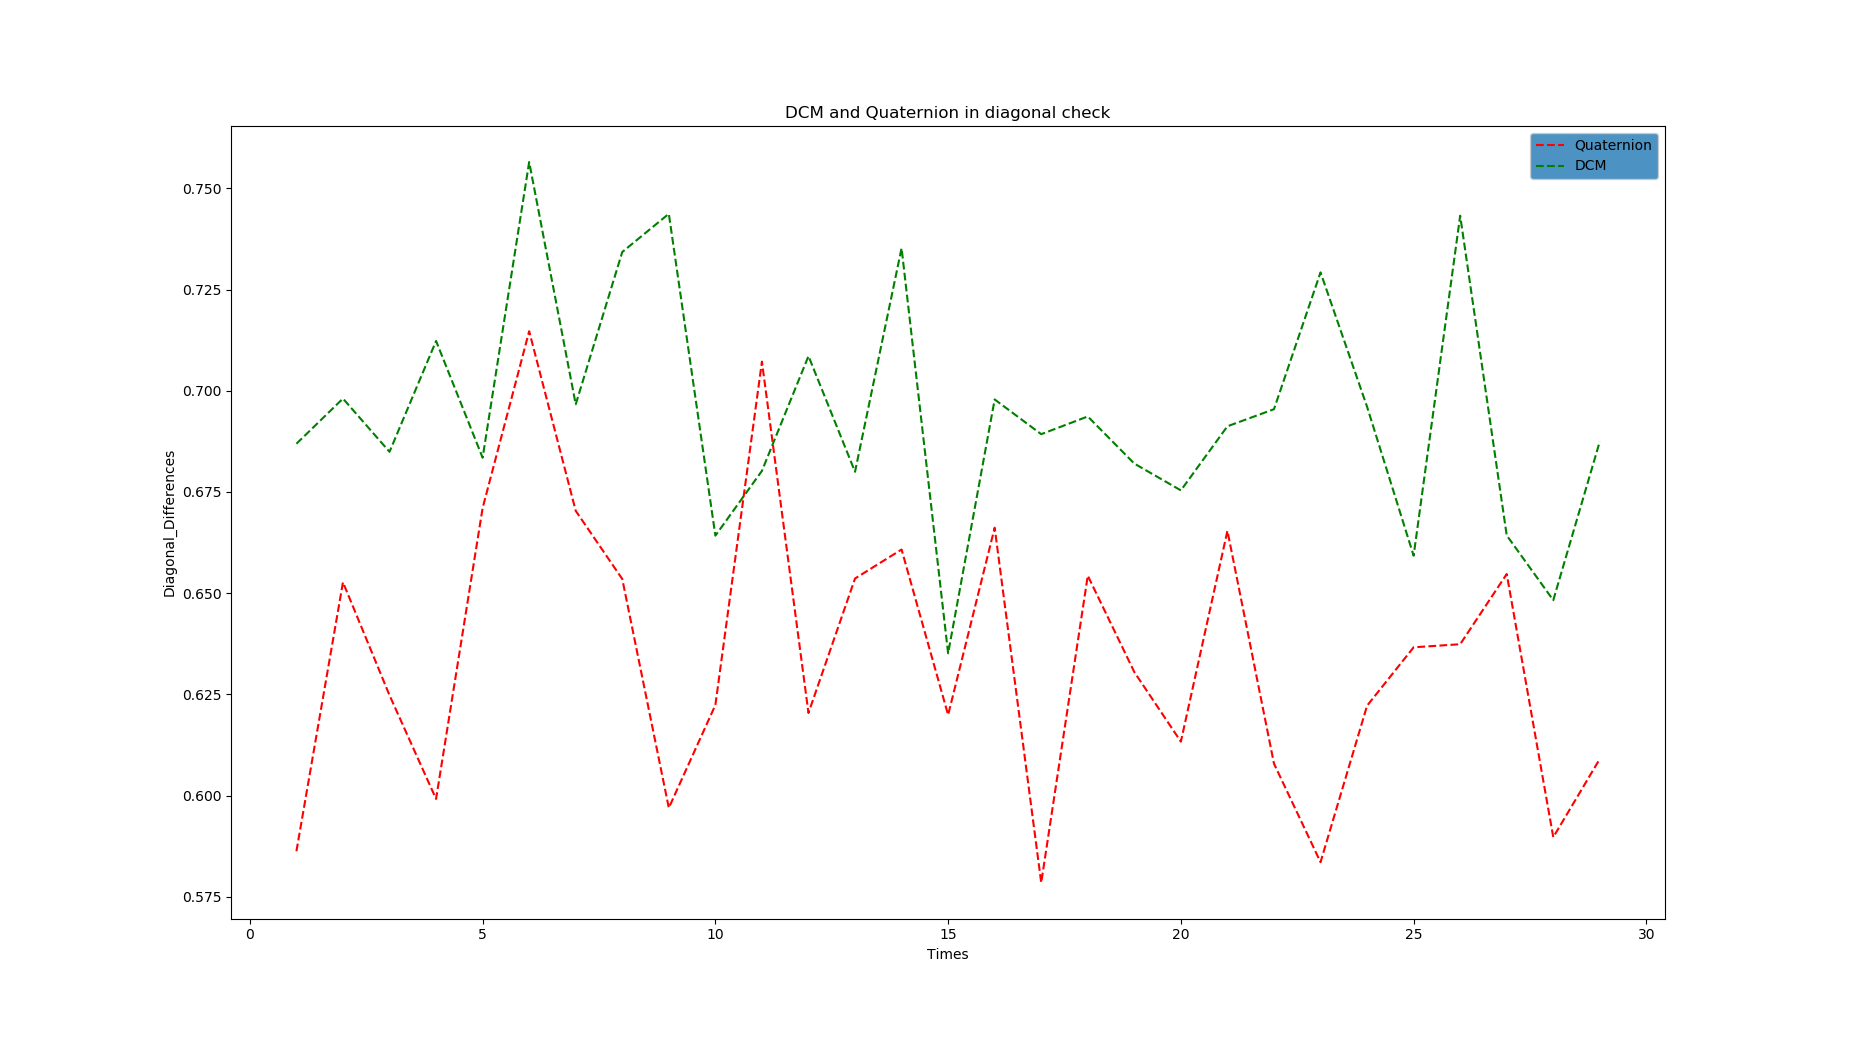
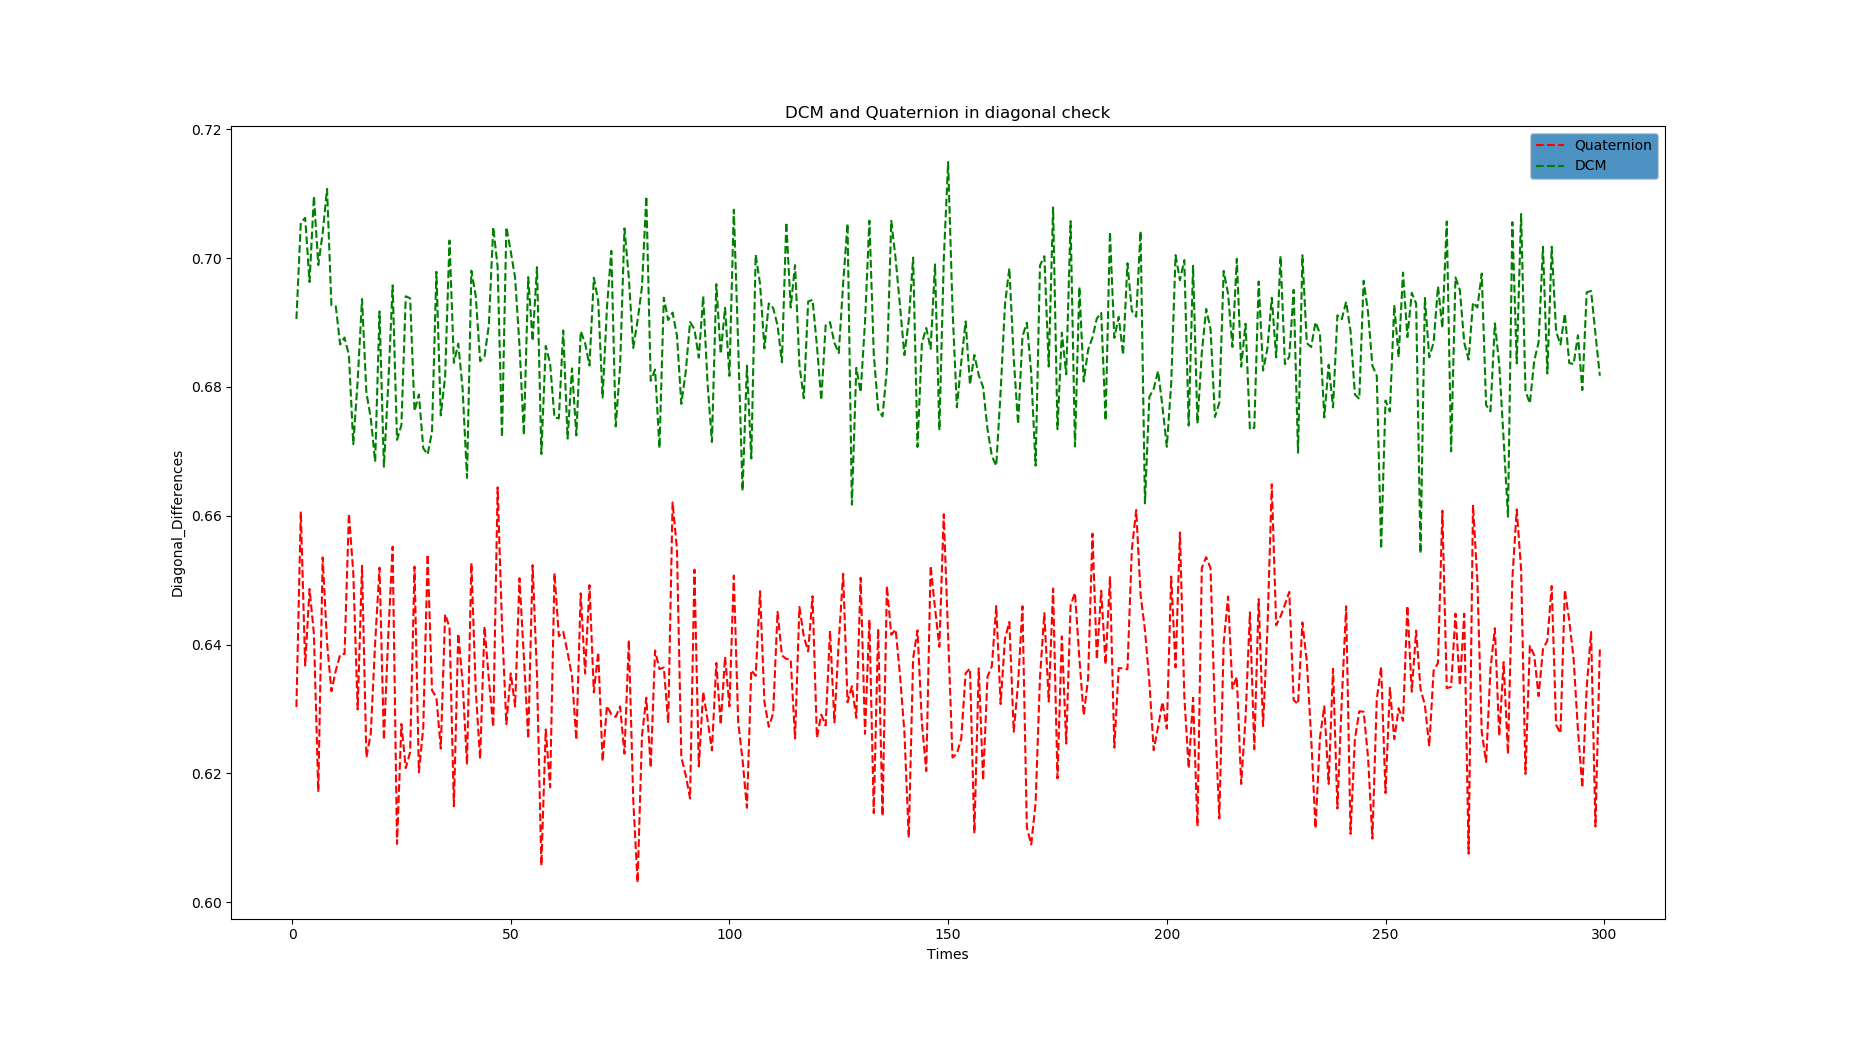
some plots

diff --git a/Quaternion_test.py b/Quaternion_test.py
@@ -67,26 +67,8 @@ print(D)
 
 print("-------test on DCM to Quaternion-------")
 print(f.DCMtoQuaternion(D))
-
-print("-------test on rotation precision------")
-
-
-print("-------compare output differences in Quaternion and DCM-------")
-(X1, X2, MEANDIFF_Q, MINDIFF_Q, MAXDIFF_Q, MEANDIFF_DCM, MINDIFF_Q, MAXDIFF_Q) = f.Quaternion_DCM_rotation_precision(30, 10, np.pi / 2, np.pi / 2, np.pi / 2)
-fig, ax = plt.subplots()
-ax.semilogy(X1, MEANDIFF_Q, 'k--', label = 'Quaternion', color = 'red')
-ax.semilogy(X1, MEANDIFF_DCM, 'k--', label = 'DCM', color = 'green')
-ax.set_xlabel("Times, 1/n")
-ax.set_ylabel("Differences")
-ax.set_title("Mean Differences of DCM and Quaternion_semilogy")
-legend = ax.legend(loc = 2)
-legend.get_frame().set_facecolor('C0')
-plt.show()
-fig.set_size_inches(18.5, 10.5)
-fig.savefig('DCM_Quaternion_Precision.png', dpi = 100)
-
 print("-------Quaternion-----------------------")
-(X1, X2, MEANDIFF, MINDIFF, MAXDIFF, TIME) = f.Quaternion_rotation_precision(30, 10, np.pi / 2, np.pi / 2, np.pi / 2)
+(X1, X2, MEANDIFF, MINDIFF, MAXDIFF, TIME) = f.Quaternion_rotation_precision(300, 100, np.pi, np.pi, np.pi)
 fig, ax = plt.subplots()
 ax.loglog(X1, MEANDIFF, 'k--', label = 'Mean', color = 'red')
 ax.loglog(X1, MINDIFF, 'k:', label = 'MIN', color = 'green')
@@ -111,19 +93,19 @@ plt.show()
 fig.set_size_inches(18.5, 10.5)
 fig.savefig('Time_Quaternion1.png', dpi = 100)
 
-fig, ax = plt.subplots()
-ax.semilogy(X1, TIME, 'o--', label = 'time', color = 'red')
-ax.set_xlabel("Times, 1/n")
-ax.set_ylabel("Time in seconds")
-ax.set_title("Time in seconds(Quaternion)_semilogy")
-legend = ax.legend(loc = 2, bbox_to_anchor = (1.05, 1.0),borderaxespad = 0.)
-legend.get_frame().set_facecolor('C0')
-plt.show()
-fig.set_size_inches(18.5, 10.5)
-fig.savefig('Time_Quaternion2.png', dpi = 100)
+#fig, ax = plt.subplots()
+#ax.semilogy(X1, TIME, 'o--', label = 'time', color = 'red')
+#ax.set_xlabel("Times, 1/n")
+#ax.set_ylabel("Time in seconds")
+#ax.set_title("Time in seconds(Quaternion)_semilogy")
+#legend = ax.legend(loc = 2, bbox_to_anchor = (1.05, 1.0),borderaxespad = 0.)
+#legend.get_frame().set_facecolor('C0')
+#plt.show()
+#fig.set_size_inches(18.5, 10.5)
+#fig.savefig('Time_Quaternion2.png', dpi = 100)
 
 print("-------DCM-----------------------")
-(X1, X2, MEANDIFF, MINDIFF, MAXDIFF, TIME) = f.DCM_rotation_precision(30, 10, np.pi / 2, np.pi / 2, np.pi / 2)
+(X1, X2, MEANDIFF, MINDIFF, MAXDIFF, TIME) = f.DCM_rotation_precision(300, 100, np.pi, np.pi, np.pi)
 fig, ax = plt.subplots()
 ax.loglog(X1, MEANDIFF, 'k--', label = 'Mean', color = 'red')
 ax.loglog(X1, MINDIFF, 'k:', label = 'MIN', color = 'green')
@@ -148,18 +130,18 @@ plt.show()
 fig.set_size_inches(18.5, 10.5)
 fig.savefig('Time_DCM1.png', dpi = 100)
 
-fig, ax = plt.subplots()
-ax.semilogy(X1, TIME, 'o--', label = 'time', color = 'green')
-ax.set_xlabel("Times, 1/n")
-ax.set_ylabel("Time in seconds")
-ax.set_title("Time in seconds(DCM)_semilogy")
-legend = ax.legend(loc = 2, bbox_to_anchor = (1.05, 1.0),borderaxespad = 0.)
-legend.get_frame().set_facecolor('C0')
-plt.show()
-fig.set_size_inches(18.5, 10.5)
-fig.savefig('Time_DCM2.png', dpi = 100)
+#fig, ax = plt.subplots()
+#ax.semilogy(X1, TIME, 'o--', label = 'time', color = 'green')
+#ax.set_xlabel("Times, 1/n")
+#ax.set_ylabel("Time in seconds")
+#ax.set_title("Time in seconds(DCM)_semilogy")
+#legend = ax.legend(loc = 2, bbox_to_anchor = (1.05, 1.0),borderaxespad = 0.)
+#legend.get_frame().set_facecolor('C0')
+#plt.show()
+#fig.set_size_inches(18.5, 10.5)
+#fig.savefig('Time_DCM2.png', dpi = 100)
 
-(X1, X2, MEANDIFF_Q, MINDIFF_Q, MAXDIFF_Q, MEANDIFF_DCM, MINDIFF_Q, MAXDIFF_Q) = f.Quaternion_DCM_rotation_precision(30, 10, np.pi / 2, np.pi / 2, np.pi / 2)
+(X1, X2, MEANDIFF_Q, MINDIFF_Q, MAXDIFF_Q, MEANDIFF_DCM, MINDIFF_Q, MAXDIFF_Q) = f.Quaternion_DCM_rotation_precision(300, 100, np.pi, np.pi, np.pi)
 fig, ax = plt.subplots()
 ax.loglog(X1, MEANDIFF_Q, 'k--', label = 'Quaternion', color = 'red')
 ax.loglog(X1, MEANDIFF_DCM, 'k--', label = 'DCM', color = 'green')
@@ -171,8 +153,20 @@ legend.get_frame().set_facecolor('C0')
 plt.show()
 fig.set_size_inches(18.5, 10.5)
 fig.savefig('DCM_Quaternion_Precision_loglog.png', dpi = 100)
+
+fig, ax = plt.subplots()
+ax.semilogy(X1, MEANDIFF_Q, 'k--', label = 'Quaternion', color = 'red')
+ax.semilogy(X1, MEANDIFF_DCM, 'k--', label = 'DCM', color = 'green')
+ax.set_xlabel("Times, 1/n")
+ax.set_ylabel("Differences")
+ax.set_title("Mean Differences of DCM and Quaternion, semilog_plot")
+legend = ax.legend(loc = 2)
+legend.get_frame().set_facecolor('C0')
+plt.show()
+fig.set_size_inches(18.5, 10.5)
+fig.savefig('DCM_Quaternion_Precision_semilog.png', dpi = 100)
 print("--------test on rotator differences-------")
-(X1, X2, DIAGONAL_CHECK_Q, OFF_DIAGONAL_CHECK_Q, ORTHONORMALITY_COL_Q, ORTHONORMALITY_ROW_Q, DIAGONAL_CHECK_DCM, OFF_DIAGONAL_CHECK_DCM, ORTHONORMALITY_COL_DCM, ORTHONORMALITY_ROW_DCM) = f.DCM_Quaternion_rotator_check(30, 10, np.pi / 2, np.pi / 2, np.pi / 2)
+(X1, X2, DIAGONAL_CHECK_Q, OFF_DIAGONAL_CHECK_Q, ORTHONORMALITY_COL_Q, ORTHONORMALITY_ROW_Q, DIAGONAL_CHECK_DCM, OFF_DIAGONAL_CHECK_DCM, ORTHONORMALITY_COL_DCM, ORTHONORMALITY_ROW_DCM) = f.DCM_Quaternion_rotator_check(300, 100, np.pi / 2, np.pi / 2, np.pi / 2)
 
 fig, ax = plt.subplots()
 ax.plot(X2, DIAGONAL_CHECK_Q, 'k--', label = 'Quaternion', color = 'red')
@@ -213,6 +207,7 @@ fig.savefig('DCM_Quaternion_orthonormality_row_check.png', dpi = 100)
 fig, ax = plt.subplots()
 ax.plot(X2, ORTHONORMALITY_COL_Q, 'o', label = 'Quaternion', color = 'red')
 ax.plot(X2, ORTHONORMALITY_COL_DCM, 'k--', label = 'DCM', color = 'green')
+ax.set_xlabel("Times")
 ax.set_ylabel("Orthonormality_check_col")
 ax.set_title("Orthonormality_check_col")
 legend = ax.legend(loc = 2)
@@ -222,7 +217,7 @@ fig.set_size_inches(18.5, 10.5)
 fig.savefig('DCM_Quaternion_orthonormality_col_check.png', dpi = 100)
 
 
-(X1, X2, DIFF_CHECK_Q, DIFF_CHECK_DCM) = f.DCM_Quaternion_rotator_check2(30, 10, np.pi / 2, np.pi / 2, np.pi / 2)
+(X1, X2, DIFF_CHECK_Q, DIFF_CHECK_DCM) = f.DCM_Quaternion_rotator_check2(300, 100, np.pi / 2, np.pi / 2, np.pi / 2)
 
 fig, ax = plt.subplots()
 ax.plot(X2, DIFF_CHECK_Q, 'k--', label = 'Quaternion', color = 'red')
@@ -236,7 +231,7 @@ plt.show()
 fig.set_size_inches(18.5, 10.5)
 fig.savefig('DCM_Quaternion_ed.png', dpi = 100)
 
-(X1, X2, DIFF_CHECK_Q, DIFF_CHECK_DCM) = f.DCM_Quaternion_rotator_check3(30, 10, np.pi, np.pi, np.pi)
+(X1, X2, DIFF_CHECK_Q, DIFF_CHECK_DCM) = f.DCM_Quaternion_rotator_check3(300, 100, np.pi, np.pi, np.pi)
 
 fig, ax = plt.subplots()
 ax.plot(X2, DIFF_CHECK_Q, 'o', label = 'Quaternion', color = 'red')

diff --git a/functions.py b/functions.py
@@ -8,7 +8,7 @@ import math
 import random
 import numpy as np
 from Quaternion import Quaternion
-import time
+import timeit
 
 def computeDCM(theta, vectors):
     '''
@@ -89,11 +89,12 @@ def Quaternion_rotation_precision(N, R, x_theta, y_theta, z_theta):
     MINDIFF = []
     MAXDIFF = []
     TIME = []
-    aTime = time.clock()
+    
     for n in range (1,N):
         meandiff = 0.0
         maxdiff = 0.0
         mindiff = 1e9
+        time = 0
         for r in range(0,R):
             x = random.random()
             y = random.random()
@@ -101,18 +102,20 @@ def Quaternion_rotation_precision(N, R, x_theta, y_theta, z_theta):
             p = Quaternion(0.0, x, y, z)
             p_zero = Quaternion(0.0, x, y, z)
             steps = n
+            aTime = timeit.default_timer()
             for i in range(0, steps):
                 p = p.rotator(x_theta / steps, [1.0, 0.0, 0.0])
             for j in range(0, steps):
                 p = p.rotator(y_theta / steps, [0.0, 1.0, 0.0])
             for k in range(0, steps):
-                p = p.rotator(z_theta / steps, [0.0, 0.0, 1.0])               
+                p = p.rotator(z_theta / steps, [0.0, 0.0, 1.0])  
+            bTime = timeit.default_timer()
+            time += (bTime - aTime) / (3 * n)
             diff = (p_zero - p).norm()
             meandiff += diff
             mindiff = min(mindiff, diff)
-            maxdiff = max(maxdiff, diff)
-        bTime = time.clock()
-        TIME.append((bTime - aTime) / (R * n))
+            maxdiff = max(maxdiff, diff)        
+        TIME.append(time / R)
         X1.append(1.0 / n)
         X2.append(n)
         MEANDIFF.append(meandiff / R)
@@ -139,11 +142,12 @@ def DCM_rotation_precision(N, R, x_theta, y_theta, z_theta):
     MINDIFF = []
     MAXDIFF = []
     TIME = []
-    aTime = time.clock()
+    
     for n in range (1,N):
         meandiff = 0.0
         maxdiff = 0.0
         mindiff = 1e9
+        time = 0
         for r in range(0, R):
             x = random.random()
             y = random.random()
@@ -154,18 +158,20 @@ def DCM_rotation_precision(N, R, x_theta, y_theta, z_theta):
             m1 = computeDCM(x_theta / steps, [1, 0, 0])
             m2 = computeDCM(y_theta / steps, [0, 1, 0])
             m3 = computeDCM(z_theta / steps, [0, 0, 1])
+            aTime = timeit.default_timer()
             for i in range(0, steps):
                 v = np.dot(m1, v)
             for j in range(0, steps):
                 v = np.dot(m2, v)
             for k in range(0, steps):
-                v = np.dot(m3, v)              
+                v = np.dot(m3, v)   
+            bTime = timeit.default_timer()
+            time += (bTime - aTime) / (3 * n)
             diff = math.sqrt(pow(v[0] - v_zero[0], 2) + pow(v[1] - v_zero[1], 2) + pow(v[2] - v_zero[2], 2))
             meandiff += diff
             mindiff = min(mindiff, diff)
-            maxdiff = max(maxdiff, diff)
-        bTime = time.clock()
-        TIME.append((bTime - aTime) / (n * R))
+            maxdiff = max(maxdiff, diff)        
+        TIME.append(time / R)
         X1.append(1.0 / n)
         X2.append(n)
         MEANDIFF.append(meandiff / R)
